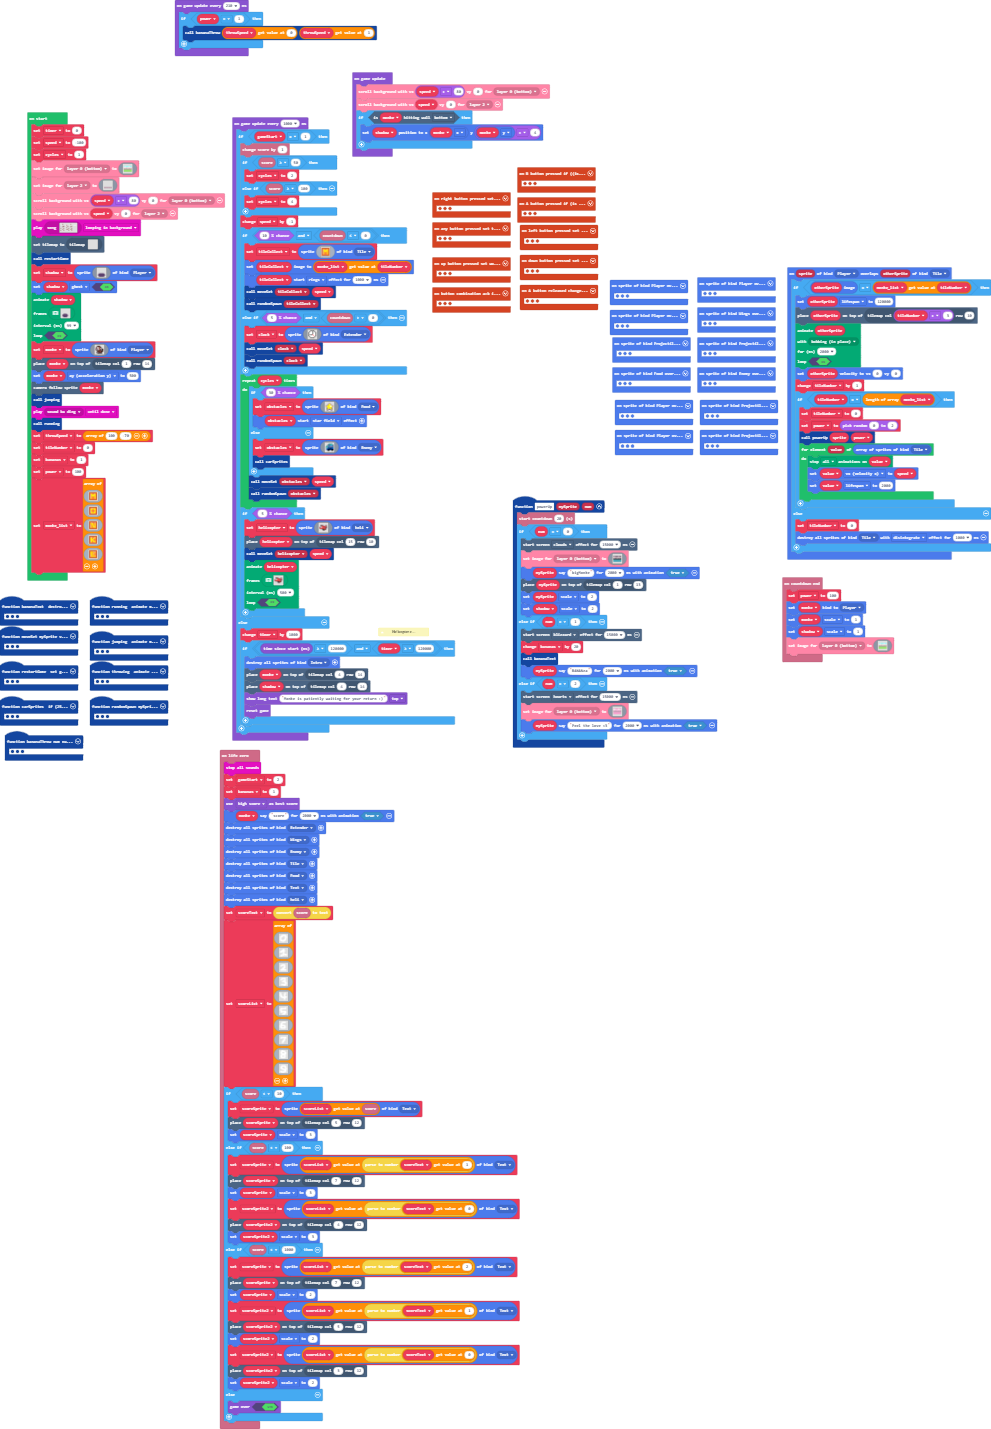
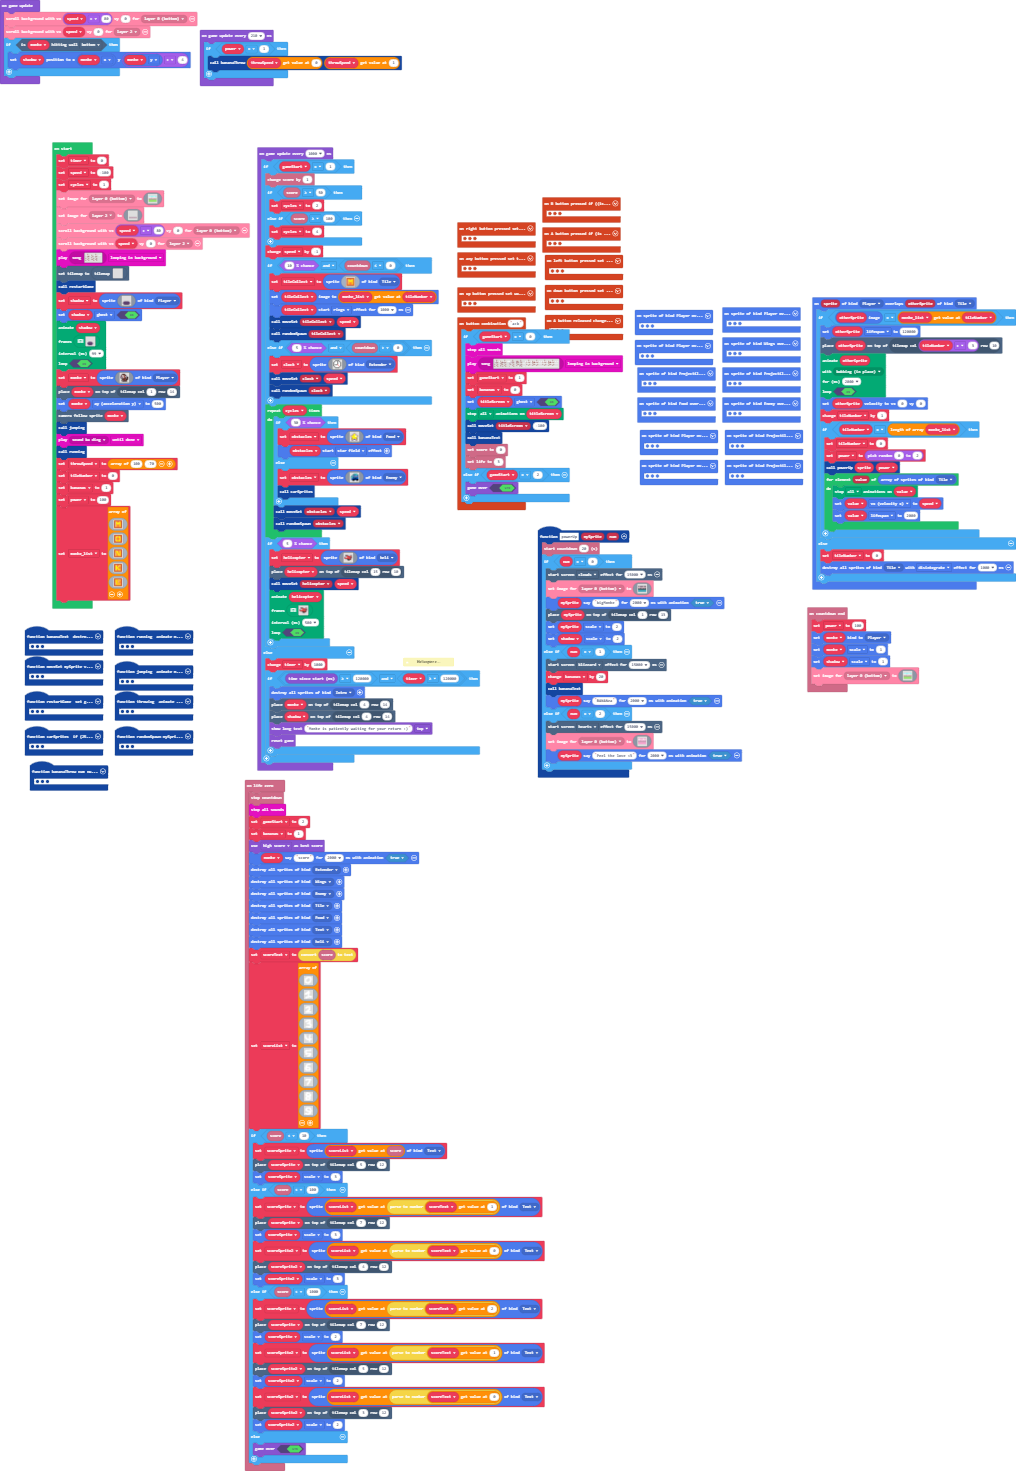
main music

Changed region(s): [[0.0, 0.0, 1.0, 1.0]]

diff --git a/images.g.ts b/images.g.ts
@@ -38,7 +38,7 @@ namespace myImages {
             case "{CzYW!QfvUkdd!ro`L3j":
[1 lines of base64/hex data omitted]
             case "song1":
[2 lines of base64/hex data omitted]
         }
         return null;
     })

diff --git a/main.ts b/main.ts
@@ -511,22 +511,6 @@ function carSprites () {
     }
     obstacles.startEffect(effects.trail)
 }
-controller.combos.attachCombo("a+b", function () {
-    if (gameStart == 0) {
-        music.stopAllSounds()
-        music.play(music.createSong(assets.song`in game`), music.PlaybackMode.LoopingInBackground)
-        gameStart = 1
-        bananas = 0
-        titleScreen.setFlag(SpriteFlag.Ghost, true)
-        animation.stopAnimation(animation.AnimationTypes.All, titleScreen)
-        moveSet(titleScreen, -100)
-        bananaText()
-        info.setScore(0)
-        info.setLife(3)
-    } else if (gameStart == 2) {
-        game.gameOver(true)
-    }
-})
 function throwing () {
     animation.runImageAnimation(
     monke,
@@ -667,6 +651,22 @@ sprites.onOverlap(SpriteKind.Enemy, SpriteKind.Enemy, function (sprite, otherSpr
     sprites.destroyAllSpritesOfKind(SpriteKind.Wings)
     randomSpawn(sprite)
     randomSpawn(otherSprite)
+})
+controller.combos.attachCombo("a+b", function () {
+    if (gameStart == 0) {
+        music.stopAllSounds()
+        music.play(music.createSong(assets.song`in game`), music.PlaybackMode.LoopingInBackground)
+        gameStart = 1
+        bananas = 0
+        titleScreen.setFlag(SpriteFlag.Ghost, true)
+        animation.stopAnimation(animation.AnimationTypes.All, titleScreen)
+        moveSet(titleScreen, -100)
+        bananaText()
+        info.setScore(0)
+        info.setLife(3)
+    } else if (gameStart == 2) {
+        game.gameOver(true)
+    }
 })
 function moveSet (mySprite: Sprite, velocity: number) {
     mySprite.setVelocity(velocity + randint(-1, 1), 0)
@@ -1273,6 +1273,7 @@ controller.B.onEvent(ControllerButtonEvent.Pressed, function () {
     }
 })
 info.onLifeZero(function () {
+    info.stopCountdown()
     music.stopAllSounds()
     gameStart = 2
     bananas = 1
@@ -1953,10 +1954,10 @@ let scoreSprite2: Sprite = null
 let scoreSprite: Sprite = null
 let scoreList: Image[] = []
 let scoreText = ""
-let banana: Sprite = null
-let textSprite: TextSprite = null
 let titleScreen: Sprite = null
 let gameStart = 0
+let banana: Sprite = null
+let textSprite: TextSprite = null
 let obstacles: Sprite = null
 let monke_list: Image[] = []
 let power2 = 0

diff --git a/tilemap.g.ts b/tilemap.g.ts
@@ -64,6 +64,25 @@ namespace myTiles {
 . . . . . . . . . . . . . . . . 
 . 2 . . . . . . . . . . . . . . 
 `, [myTiles.transparency16], TileScale.Sixteen);
+            case "level4":
+            case "level4":return tiles.createTilemap(hex`1000100000000000000000000000000000000000000000000000000000000000000000000000000000000000000000000000000000000000000000000000000000000000000000000000000000000000000000000000000000000000000000000000000000000000000000000000000000000000000000000000000000000000000000000000000000000000000000000000000000000000000000000000000000000000000000000000000000000000000000000000000000000000000000000000000000000000000000000000000000000000000000000000000000000000000000000000000000000000000000000000000000000000000000000000000000000000`, img`
+. . . . . . . . . . . . . . . . 
+. . . . . . . . . . . . . . . . 
+. . . . . . . . . . . . . . . . 
+. . . . . . . . . . . . . . . . 
+. . . . . . . . . . . . . . . . 
+. . . . . . . . . . . . . . . . 
+. . . . . . . . . . . . . . . . 
+. . . . . . . . . . . . . . . . 
+. . . . . . . . . . . . . . . . 
+. . . . . . . . . . . . . . . . 
+. . . . . . . . . . . . . . . . 
+. . . . . . . . . . . . . . . . 
+. . . . . . . . . . . . . . . . 
+. . . . . . . . . . . . . . . . 
+. . . . . . . . . . . . . . . . 
+. . . . . . . . . . . . . . . . 
+`, [myTiles.transparency16], TileScale.Sixteen);
         }
         return null;
     })
